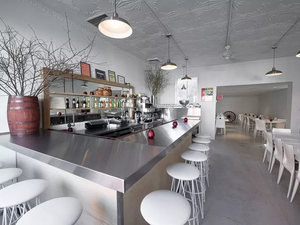
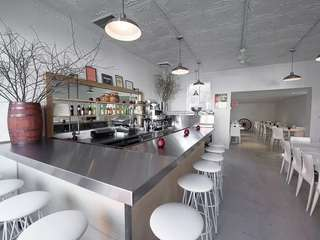
fix: Compress small images and resize small and medium

diff --git a/Gruntfile.js b/Gruntfile.js
@@ -5,10 +5,11 @@ module.exports = function(grunt) {
                 options: {
                     sizes: [{
                             name: 'small',
-                            width: 300
+                            width: 320,
+                            quality: 60
                         }, {
                             name: 'medium',
-                            width: 400,
+                            width: 500,
                             quality: 60
                         }, {
                             name: 'large',
